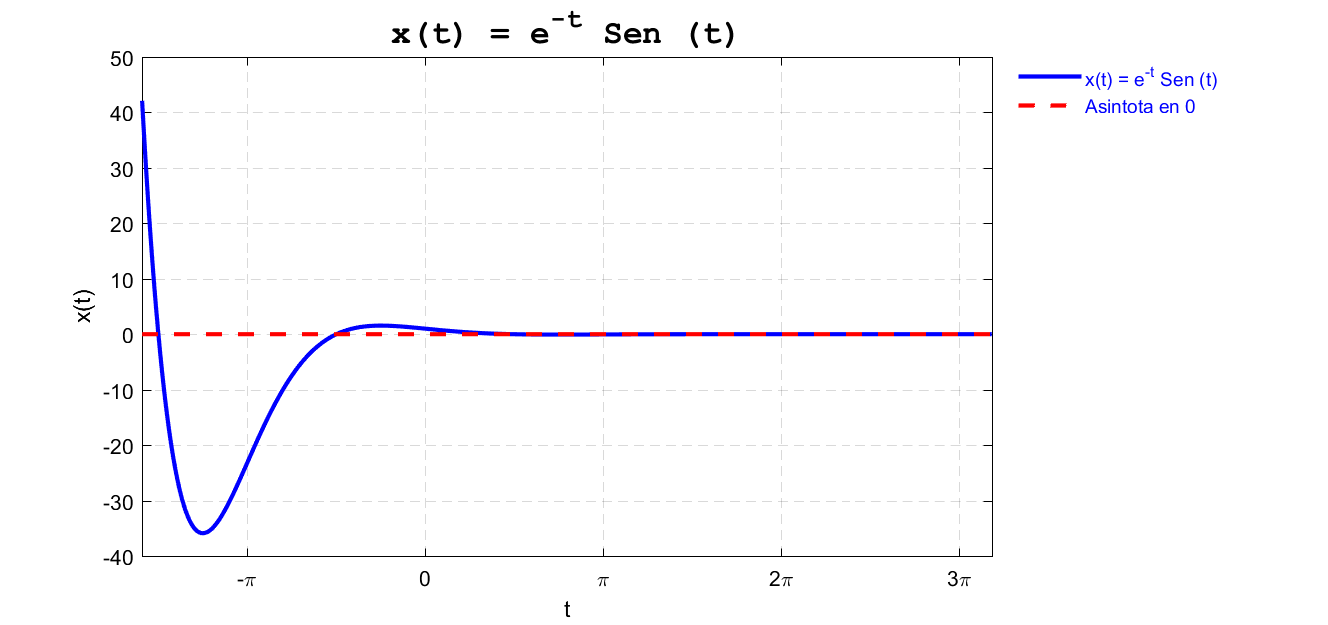
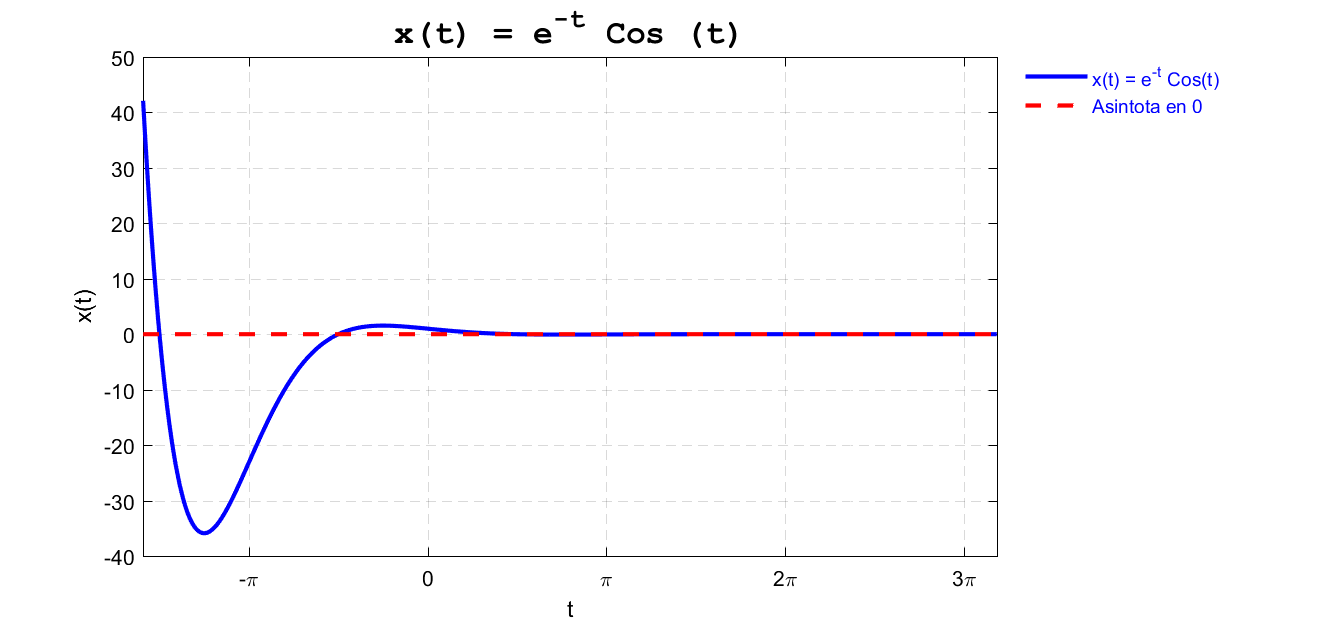
eng

diff --git a/expsin.m b/expsin.m
@@ -12,10 +12,10 @@ p(1).Color = 'blue';
 p(2).Color = 'red';
 p(2).LineStyle = '--';
 
-title('x(t) = e^{-t} Sen (t)','Fontsize',16,'FontName','FixedWidth');
+title('x(t) = e^{-t} Cos (t)','Fontsize',16,'FontName','FixedWidth');
 xlabel('t');
 ylabel('x(t)');
-legend('x(t) = e^{-t} Sen (t)','Asintota en 0','Location','northeastoutside');
+legend('x(t) = e^{-t} Cos(t)','Asintota en 0','Location','northeastoutside');
 legend('boxoff');
 ax = gca;
 ax.Legend.TextColor = 'blue';
